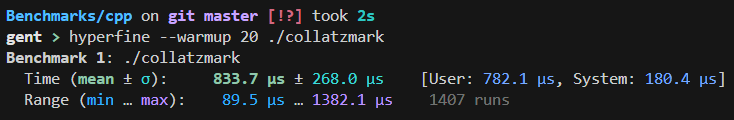
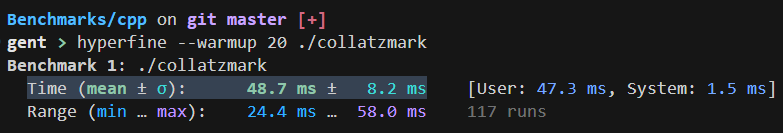
fix(cpp): write working c++

diff --git a/cpp/src/main.cpp b/cpp/src/main.cpp
@@ -1,52 +1,31 @@
-#include <vector>
-#include <sstream>
 #include <iostream>
+#include <sstream>
 
 int collatz(int x) {
-    bool isEven = x % 2 == 0;
-
-    if (isEven) {
+    if (x % 2 == 0)
         return x / 2;
-    } else {
-        return x * 3 + 1;
-    }
+
+    return 3 * x + 1;
 }
 
-std::vector<int> collatzSequence(int x) {
-    if (x < 1)
-        return {};
+std::string collatzSequence(int x) {
+    if (x == 1)
+        return "";
 
-    std::vector<int> seq(x);
-    while (x > 1) {
-        int cx = collatz(x);
-        seq.push_back(cx);
-        x = cx;
-    }
-
-    return seq;
-}
-
-template <typename T>
-std::string vecAsString(std::vector<T> vec) {
     std::stringstream ss;
-    for (const auto i : vec) {
-        ss << i << ", ";
-    }
-
     std::string res;
-    ss >> res;
 
+    for (int i = collatz(x); i > 1; i = collatz(i))
+        ss << i << ',';
+
+    ss << "1";
+    ss >> res;
     return res;
 }
 
-int main(void) {
-    std::stringstream ss;
-    for (int i = 1; i > 10000; i++) {
-        ss << i << ": " << vecAsString<int>(collatzSequence(i));
-    }
+int main() {
+    for (int i = 1; i <= 10000; i++)
+        std::cout << i << ": " << collatzSequence(i) << std::endl;
 
-    std::string out;
-    ss >> out;
-
-    std::cout << out;
+    return 0;
 }

diff --git a/.github/README.md b/.github/README.md
@@ -12,9 +12,7 @@ only got up to 171.
 
 - C++:
   
-  ![Time (mean ± σ):     833.7 µs ± 268.0 µs](./assets/cpp.png)
-  
-  POSSIBLY WRONG: It doesn't print anything to stdout, so who knows. Maybe it's skipping the operations.
+  ![Time (mean ± σ):      48.7 ms ±   8.2 ms](./assets/cpp.png)
 - Rust:
   
   ![Time (mean ± σ):      44.0 ms ±   9.1 ms](./assets/rust.png)
